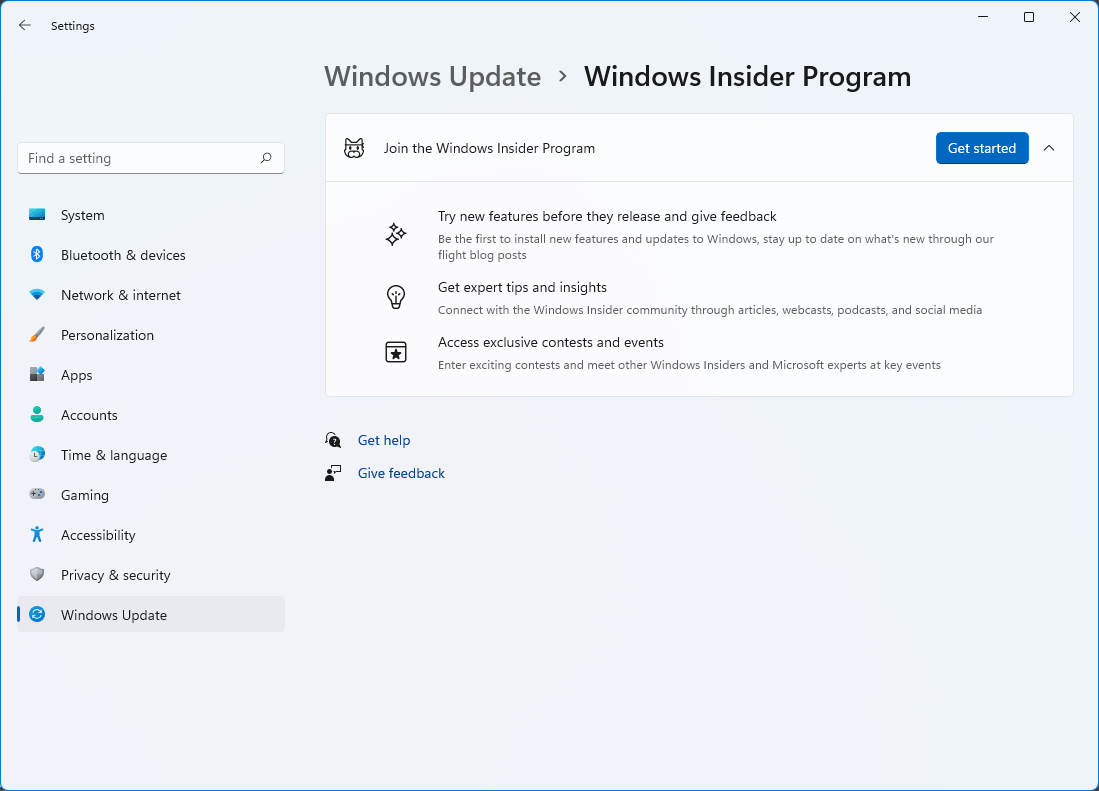
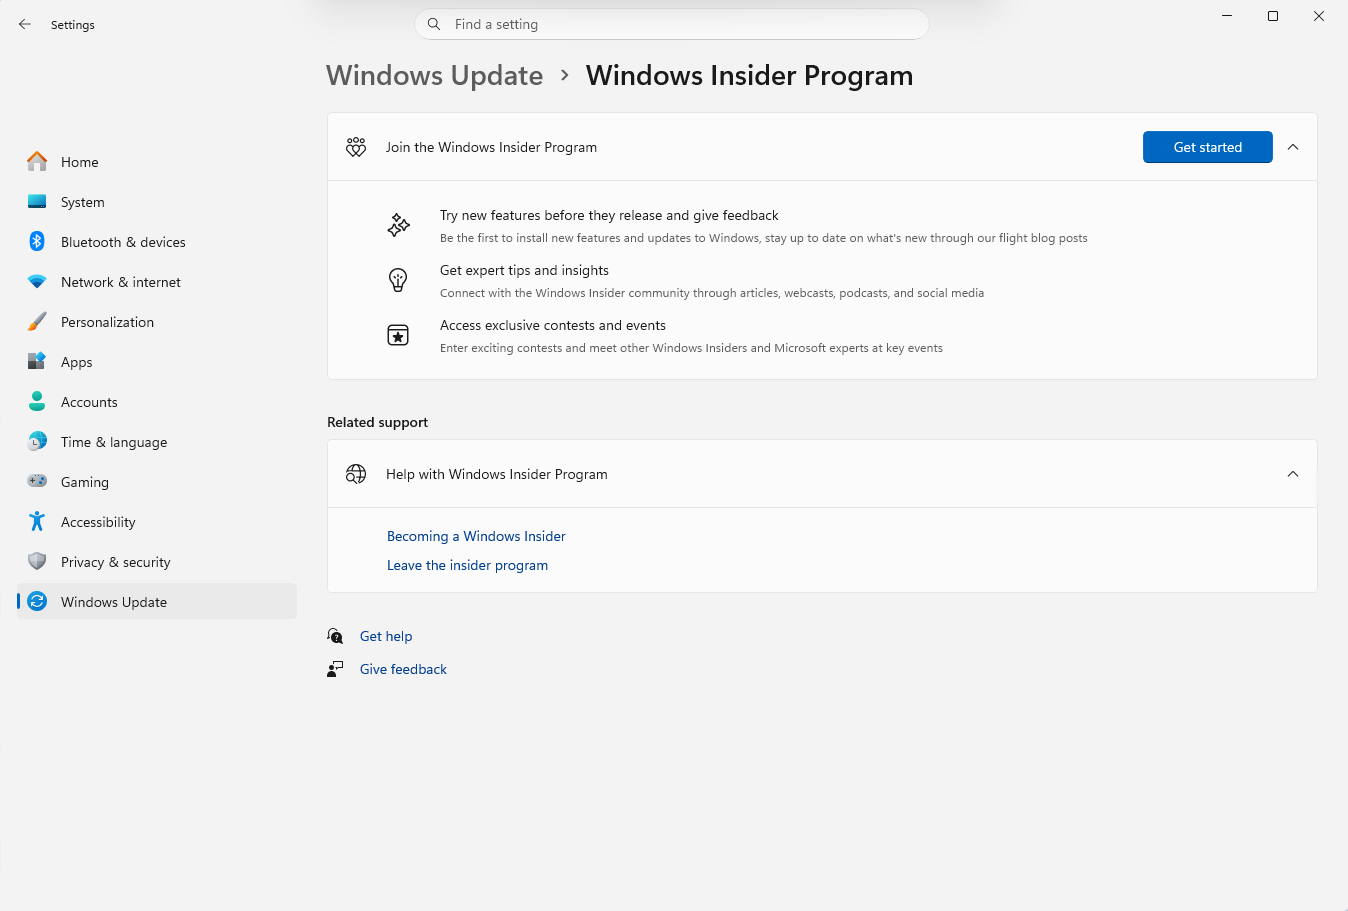
Update images and instructions for the Windows Insider Program

diff --git a/src/wiki/windows-insiders.md b/src/wiki/windows-insiders.md
@@ -16,7 +16,7 @@ You must be logged onto a Microsoft Account to be able to join the Windows Insid
 
 2. Click on **Windows Insider Program**, then navigate to the sign up page.
 
-    ![The Windows Update section of Windows 11's Settings app. On the right side, near the bottom of the page, there is a button to open Windows Insider Program settings.](./img/windows-insider/11/settings-select.png)
+    ![The Windows Update section of Windows 11's Settings app. On the right side, near the bottom of the page, there is a button to open Windows Insider Program settings.](./img/windows-insider/11/windows-update-settings-select.png)
 
 3. Click on the **Get Started** button to join the Windows Insider Program.
 
@@ -76,29 +76,25 @@ If you don't want to participate in the Windows Insider Program anymore, you can
 
 2. Click on **Windows Insider Program**
 
-    ![The Windows Update section of Windows 11's Settings app. On the right side, near the bottom of the page, there is a button to open Windows Insider Program settings.](./img/windows-insider/11/settings-select.png)
+    ![The Windows Update section of Windows 11's Settings app. On the right side, near the bottom of the page, there is a button to open Windows Insider Program settings.](./img/windows-insider/11/windows-update-settings-select.png)
 
-3. Click on **Stop getting preview builds**.
+3. Click on **Unenroll Device**.
 
-    ![The Windows Insider Program settings page on a computer that is enrolled in the Windows Insider Program.](./img/windows-insider/11/leaving-get-started.png)
+    ![The Windows Insider Program settings page on a computer that is enrolled in the Windows Insider Program.](./img/windows-insider/11/insider-settings-page.png)
 
-4. Click on **Leaving the Insider Program**.
+4. You will be redirected to an official website. Click on *Leave the Program now*.
 
-    ![The "Stop getting preview builds" section is expanded. Two options are shown: "Unenroll this device when the next version of Windows releases", and "Unenroll this device immediately".](./img/windows-insider/11/unenroll-immediately.png)
-
-5. You will be redirected to an official website. Click on *Leave the Program now*.
-
-    ![On the Windows Insider Program website, a quick two-sentence explainer describes how you can choose to unregister your Microsoft account from the program, or you can unenroll your device but keep your Microsoft account registered. Below this, there is a "Leave the program now" button.](./img/windows-insider/10/leaving-the-program.png)
+    ![On the Windows Insider Program website, a quick two-sentence explainer describes how you can choose to unregister your Microsoft account from the program, or you can unenroll your device but keep your Microsoft account registered. Below this, there is a "Leave the program now" button.](./img/windows-insider/leave-the-insider-program.png)
 
     ::: tip
     If you see **You must login to leave the program**, login on the top right corner of the website.
     :::
 
-6. Click on **Stop receiving Insider Preview Builds**.
+5. Click on **Stop receiving Insider Preview Builds**.
 
-    ![Once you click "Leave the program now", a disclaimer is shown to indicate that if you are receiving Insider Preview builds through work but are not the administrator, you will still continue to get preview builds. Below this, there is a "Stop receiving Insider Preview builds" button.](./img/windows-insider/10/stop-receiving-builds.png)
+    ![Once you click "Leave the program now", a disclaimer is shown to indicate that if you are receiving Insider Preview builds through work but are not the administrator, you will still continue to get preview builds. Below this, there is a "Stop receiving Insider Preview builds" button.](./img/windows-insider/left-insider-program-thanks.png)
 
-7. You should see *"This email address is not registered as a Windows Insider"*.
+6. You should see *"This email address is not registered as a Windows Insider"*.
 
     You should now be unenrolled from the Windows Insider Program.
 
@@ -106,15 +102,15 @@ If you don't want to participate in the Windows Insider Program anymore, you can
 
 ### Optional Diagnostics Data is disabled
 
-If you see *"To manage the Windows Insider program settings for your device and allow it to stay in the Windows Insider program, you'll need to turn on optional diagnostic data."*, click on *"Go to Diagnostics & Feedback settings to turn on optional diagnostic data."*.
+If you see *"To join the Insider Programn turn on optinal diagnostic data"*, click on *"Open Diagnostics & Feedback."*.
 
-![Windows 10's Settings app, opened to the Windows Insider Program screen. The above error message is displayed.](./img/windows-insider/optional-diagnos.png)
+![Windows 10's Settings app, opened to the Windows Insider Program screen. The above error message is displayed.](./img/windows-insider/insider-settings-page-diagnostic.png)
 
 > Image source: [Minitool](https://www.minitool.com/news/how-to-join-windows-insider-program.html)
 
 Select **Optional diagnostic data** and return back the the Windows Insider Program page and continue with the procedure to join the program.
 
-![The Diagnostics & feedback section of Windows 10's Settings app. The radio button for "Optional diagnostic data" is selected.](./img/windows-insider/optional-diagnos-select.png)
+![The Diagnostics & feedback section of Windows 10's Settings app. The radio button for "Optional diagnostic data" is selected.](./img/windows-insider/optional-diagnostics-feedback.png)
 
 ### Windows Insider Program Page not appearing
 
